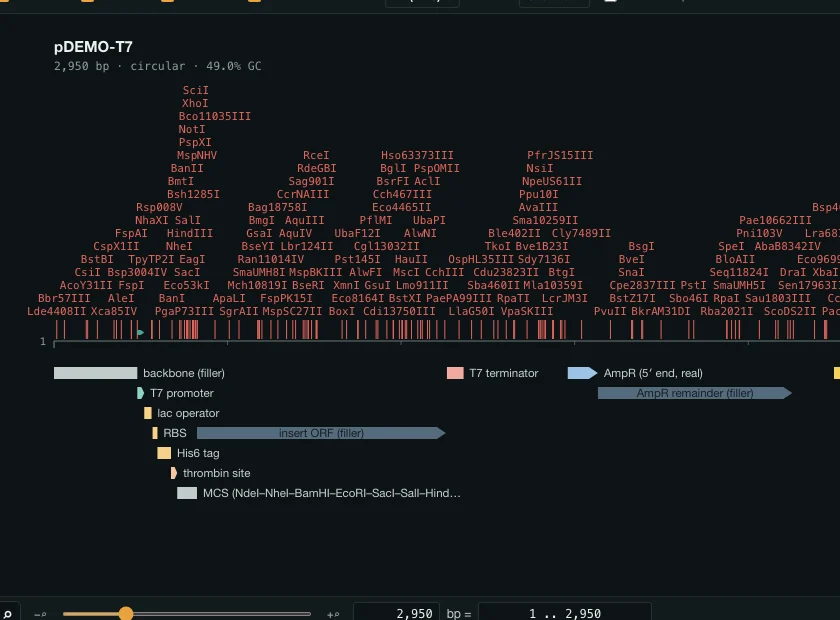
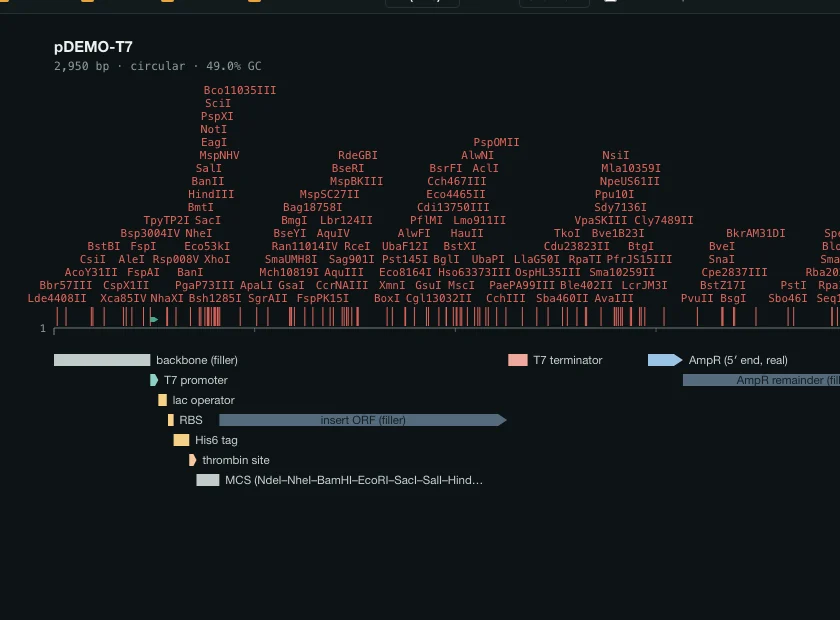
The landing page

diff --git a/docs/index.html b/docs/index.html
@@ -67,12 +67,27 @@ document.documentElement.dataset.theme=t;})()</script>
 }
 *{box-sizing:border-box}
 html{scroll-behavior:smooth; background:var(--paper)}
+/* ── the type, measured off the reference rather than guessed ────────────────
+   Shotbase's page was read with the browser rather than looked at, and the one
+   thing that carries its whole feel is this: **nothing on it is bold.** The
+   56 px hero is weight 500, the 48 px headings are 500, and the 28 px
+   sub-heading is **400** — and every one of them is tracked *negative*, −1.4 px,
+   which at 56 px is −0.025em. The body is 16/1.5 at −0.3 px, so even the prose
+   is tracked in. Two line-height regimes and nothing between them: 1.21 for
+   anything heading-shaped, 1.5 for prose.
+
+   What that buys is why it is worth copying: weight is the loudest thing type
+   has, so a page that never spends it reads as composed rather than as shouted,
+   and the tracking is what keeps a light weight at 56 px from falling apart.
+   Our own sizes stay — the reference's 1088 px measure is not ours — but the
+   weights, the tracking and the two line heights are taken whole. */
 body{
   margin:0; background:var(--paper); color:var(--body);
-  font:400 17px/1.65 var(--ui); -webkit-font-smoothing:antialiased;
+  font:400 17px/1.6 var(--ui); letter-spacing:-.017em;
+  -webkit-font-smoothing:antialiased;
   overflow-x:hidden;
 }
-h1,h2,h3{color:var(--ink); line-height:1.14; letter-spacing:-.02em; margin:0}
+h1,h2,h3{color:var(--ink); font-weight:500; line-height:1.2; letter-spacing:-.025em; margin:0}
 a{color:inherit}
 /* **`height` is an attribute, and the phone gets a different picture.** Each
    frame carries a wide screenshot and a crop of it for narrow screens; with the
@@ -100,7 +115,8 @@ section[id], div[id]{scroll-margin-top:74px}
    hides these is put on the document by the script that reveals them, and only
    where there is an observer to do it. A page whose script never ran, or ran
    and threw, is a page with everything on it. */
-html.js .rise{opacity:0; transform:translateY(14px); transition:opacity .5s ease, transform .5s ease}
+html.js .rise{opacity:0; transform:translateY(10px); will-change:transform;
+  transition:opacity .5s ease, transform .5s ease}
 html.js .rise.in{opacity:1; transform:none}
 @media (prefers-reduced-motion:reduce){ html{scroll-behavior:auto} }
 
@@ -197,8 +213,8 @@ header.rail{
   border:1px solid rgba(232,163,61,.28)}
 /* Lighter and tighter than a left column's headline: centred display type is
    read as a shape before it is read as words, and 660 at 66 px is a wall. */
-h1{font-size:clamp(34px,5.1vw,58px); font-weight:600; letter-spacing:-.03em;
-   line-height:1.06; max-width:24ch; margin-inline:auto; text-wrap:balance}
+h1{font-size:clamp(34px,5.1vw,58px); font-weight:500; letter-spacing:-.025em;
+   line-height:1.14; max-width:24ch; margin-inline:auto; text-wrap:balance}
 /* **Two lines, and the rest of the sentence is the page.** The hero carried the
    whole description — six lines centred, which is a paragraph standing where a
    promise goes, and every one of its clauses has its own section below. */
@@ -214,13 +230,25 @@ h1{font-size:clamp(34px,5.1vw,58px); font-weight:600; letter-spacing:-.03em;
      justify-content:center}
 .btn{
   display:inline-flex; align-items:center; gap:9px; text-decoration:none;
-  font:550 15px/1 var(--ui); padding:13px 20px; border-radius:11px;
+  font:500 15px/1 var(--ui); letter-spacing:-.019em; padding:13px 20px; border-radius:10px;
   border:1px solid var(--line); color:var(--ink); background:var(--ground);
   transition:transform .12s ease, border-color .12s ease, background .12s ease;
 }
 .btn:hover{transform:translateY(-1px); border-color:var(--slate)}
 .hero .btn{border-radius:999px; padding:14px 24px}
-.hero .btn.primary{box-shadow:0 10px 30px rgba(232,163,61,.22)}
+/* **The reference's button is two shadows and one of them is inside it.**
+   Measured: `inset 0 3px 0 rgba(255,255,255,.2)` over `0 2px 4px` in the
+   button's *own hue* — a highlight along the top edge, which is what makes a
+   filled pill read as a raised object rather than as a coloured rectangle, and
+   a contact shadow that is the button's colour instead of black, so the button
+   looks lit rather than cut out. Both taken, in the accent's own colour, with
+   the wide lift this page already had kept under them. */
+.hero .btn.primary{
+  box-shadow:
+    inset 0 3px 0 rgba(255,255,255,.22),
+    0 2px 4px color-mix(in oklab, var(--amber) 34%, transparent),
+    0 10px 30px rgba(232,163,61,.22);
+}
 /* the platform this reader is not on is a choice, not a second call to action */
 .hero .cta .btn:not(.primary){background:rgba(255,255,255,.06); border-color:rgba(255,255,255,.14);
   font-weight:500; padding:14px 20px}
@@ -274,7 +302,7 @@ figure{margin:0}
    the outside, and the shadow is three layers: a contact edge, a lift, and a
    wide ambient that puts the block *in* the field rather than on top of it. */
 .frame{
-  border:0; border-radius:clamp(14px,1.4vw,20px); overflow:hidden; background:var(--sunk);
+  border:0; border-radius:16px; overflow:hidden; background:var(--sunk);
   box-shadow:
     0 0 0 1px rgba(255,255,255,.09),
     0 1px 2px rgba(0,0,0,.5),
@@ -510,24 +538,40 @@ section .num + h2, section.plain .num + h2{margin-top:0}
 .num svg{display:block; flex:none}
 .num b{font-weight:600; font-family:var(--mono); font-size:11.5px;
   opacity:.72; letter-spacing:.08em}
-/* the wash, behind the frame rather than round it: an inset ring or a coloured
-   border would be a second edge competing with the frame's own */
-.feat figure{position:relative; isolation:isolate}
+/* ── the scene card ──────────────────────────────────────────────────────────
+   **The wash was a guess and the reference does something else entirely.** Read
+   with the browser rather than looked at, Shotbase's product shots do not sit on
+   a blurred glow: each sits on a **flat pastel rectangle**, 535×474 at
+   `border-radius:30px`, whose only trick is `box-shadow: inset 0 0 28px #FFF` —
+   an inner *white* glow. That one line is what stops a flat pastel reading as a
+   coloured rectangle: the edges lift toward the page and the middle stays the
+   colour, so the card looks lit from inside rather than painted on. The shot on
+   top is `border-radius:16px` with **no shadow at all** — the card is doing the
+   separating, so the shot does not have to.
+
+   Their pastels are the section's own hue at about a tenth: `#DFF2FE`,
+   `#FFEDD4`, `#F4F4F5`. Ours is `--topic` mixed into the page's own ground, so
+   the card is the section's colour on both themes rather than a pastel that
+   only exists in one. The inner glow goes to white on light and to a faint warm
+   white on dark, where a full-strength white ring would be a halo. */
+.feat figure{
+  position:relative; isolation:isolate;
+  padding:clamp(14px,2.2vw,34px);
+  border-radius:clamp(18px,2vw,30px);
+  background:color-mix(in oklab, var(--topic) 13%, var(--ground));
+  box-shadow:inset 0 0 28px rgba(255,255,255,.055);
+}
 .feat figure .frame{position:relative; z-index:1}
-/* **A blur paints outside its box; a negative inset *is* a bigger box.** Written
-   `left:-8%; right:-8%` to let the wash bleed past the figure, it grew the
-   document instead — measured, the page ran 8 px past a 390 px viewport and 17
-   past 768, which is a horizontal scrollbar on a phone for a decoration. The
-   box stays inside the figure and the spread comes from the blur, which is
-   paint and costs the layout nothing. */
-.feat figure::before{
-  content:''; position:absolute; z-index:0; pointer-events:none;
-  inset:0;
-  background:radial-gradient(62% 58% at 50% 50%,
-    color-mix(in oklab, var(--topic) 34%, transparent), transparent 74%);
-  /* the frame on top is opaque, so what is seen is only what the blur throws
-     past its edges — which is the whole effect, and it costs no layout */
-  filter:blur(58px);
+/* a caption belongs to the figure and not to the card it stands on */
+.feat figure figcaption{margin-left:0; margin-right:0}
+/* **The card is a new ground, so the quiet token has to be solved for it.**
+   `--faint` was solved against the page, the well and a card, and the scene
+   card is none of those — measured, the fourteen captions read **3.92** on the
+   teal card, which is the darkest of the five. #88999C is 4.91 there and 5.07
+   on the warmest, and it is still quieter than `--slate`. */
+.feat figure{--faint:#88999C}
+@supports not (color:color-mix(in oklab, red 10%, transparent)){
+  .feat figure{background:var(--ground)}
 }
 /* Safari before 16.2 has no `color-mix`; the pill would then have no fill and
    no ring and read as plain text, so the fallback is the page's own card */
@@ -565,11 +609,11 @@ section.plain h2{font-size:clamp(26px,3.4vw,36px); margin-top:14px}
 }
 .lede{margin:16px 0 0; max-width:64ch; font-size:clamp(16px,1.8vw,18.5px)}
 .cards{display:grid; grid-template-columns:repeat(auto-fit,minmax(258px,1fr)); gap:14px; margin-top:34px}
-.card{border:1px solid var(--hair); border-radius:13px; padding:20px; background:var(--ground)}
+.card{border:1px solid var(--hair); border-radius:16px; padding:20px; background:var(--ground)}
 .card h3{font-size:16px; display:flex; align-items:center; gap:9px}
 .card h3 code{font:500 11.5px/1 var(--mono); color:var(--amber); background:var(--amber-soft); padding:4px 7px; border-radius:6px}
 .card p{margin:11px 0 0; font-size:14.5px; color:var(--slate); line-height:1.6}
-.also{display:grid; grid-template-columns:repeat(auto-fit,minmax(216px,1fr)); gap:1px; margin-top:32px; background:var(--hair); border:1px solid var(--hair); border-radius:13px; overflow:hidden}
+.also{display:grid; grid-template-columns:repeat(auto-fit,minmax(216px,1fr)); gap:1px; margin-top:32px; background:var(--hair); border:1px solid var(--hair); border-radius:16px; overflow:hidden}
 .also div{background:var(--paper); padding:17px 18px}
 .also b{display:block; color:var(--ink); font-size:14.5px; font-weight:600}
 .also span{display:block; margin-top:5px; font-size:13.5px; color:var(--faint); line-height:1.5}
@@ -634,7 +678,7 @@ section.plain h2{font-size:clamp(26px,3.4vw,36px); margin-top:14px}
   .cmp colgroup{display:none}
   .cmp, .cmp tbody, .cmp tr, .cmp th, .cmp td{display:block; width:auto}
   .cmp thead{display:none}
-  .cmp tr{border:1px solid var(--hair); border-radius:12px; padding:4px 14px 10px; margin:0 0 12px; background:var(--ground)}
+  .cmp tr{border:1px solid var(--hair); border-radius:16px; padding:4px 14px 10px; margin:0 0 12px; background:var(--ground)}
   .cmp th, .cmp td{border:0; padding:9px 0}
   .cmp tbody th{color:var(--ink); font-size:15.5px; font-weight:600; padding-top:14px}
   .cmp td::before{
@@ -677,7 +721,7 @@ section.plain h2{font-size:clamp(26px,3.4vw,36px); margin-top:14px}
   .tbcard b + span{grid-column:2; margin-top:0}
 }
 .tbcard{
-  border:1px solid var(--hair); border-radius:14px; background:var(--ground);
+  border:1px solid var(--hair); border-radius:16px; background:var(--ground);
   padding:18px 18px 20px; transition:border-color .15s ease, transform .15s ease;
 }
 .tbcard:hover{border-color:var(--line); transform:translateY(-2px)}
@@ -714,7 +758,7 @@ section.plain h2{font-size:clamp(26px,3.4vw,36px); margin-top:14px}
 /* ── questions ───────────────────────────────────────────────────────────── */
 .qs{margin-top:26px; border-top:1px solid var(--hair)}
 details{border-bottom:1px solid var(--hair)}
-summary{cursor:pointer; list-style:none; padding:18px 34px 18px 0; position:relative; color:var(--ink); font-weight:560; font-size:16.5px}
+summary{cursor:pointer; list-style:none; padding:18px 34px 18px 0; position:relative; color:var(--ink); font-weight:500; font-size:16.5px}
 summary::-webkit-details-marker{display:none}
 summary::after{content:'+'; position:absolute; right:6px; top:50%; transform:translateY(-50%); font:400 20px/1 var(--mono); color:var(--slate)}
 details[open] summary::after{content:'–'}
@@ -737,7 +781,7 @@ details p{margin:0 0 20px; max-width:70ch; font-size:15.5px; color:var(--slate)}
 .mail{
   display:inline-flex; align-items:center; gap:10px; margin-top:26px;
   font:500 15px/1 var(--mono); color:var(--ink); text-decoration:none;
-  border:1px solid var(--line); border-radius:11px; padding:13px 18px; background:var(--paper);
+  border:1px solid var(--line); border-radius:10px; padding:13px 18px; background:var(--paper);
   word-break:break-all;
 }
 .mail:hover{border-color:var(--amber)}
@@ -817,6 +861,18 @@ footer{border-top:1px solid var(--hair); padding:44px 0 60px; background:var(--p
 /* the pill's word, solved against the pill's own tint — see the note beside
    `.feat .num`. The fill and the ring stay the topic itself. */
 :root[data-theme="light"] section{ --topic-ink:color-mix(in oklab, var(--topic) 74%, #0E1618) }
+/* the scene card, on the theme its technique was read from: a real pastel —
+   the topic at about a tenth, mixed into white rather than into the page — and
+   the inner glow at full white, which is the reference's own figure */
+:root[data-theme="light"] .feat figure{
+  background:color-mix(in oklab, var(--topic) 11%, #FFFFFF);
+  box-shadow:inset 0 0 28px #FFFFFF;
+  /* the base rules are the dark theme and they reach light too, so the dark
+     card's `--faint` would otherwise apply on a pastel. Light passes on its
+     own page value at 4.58–4.68, which is margin-less; the plate-safe #56686B
+     reads 4.93–5.04 across all five cards. */
+  --faint:#56686B;
+}
 /* the field, in a theme where the page is lighter than the application: the
    same three lights, laid on the page's own paper rather than on a dusk */
 :root[data-theme="light"] .hero::before{
@@ -870,10 +926,17 @@ footer{border-top:1px solid var(--hair); padding:44px 0 60px; background:var(--p
   --ground:#131B1D; --sunk:#0A1012; --hair:#1D272A; --line:#263235;
   --ink:#EAF0EE; --faint:#7E9093;
   border-color:#0A1012;
+  /* **The reference's workhorse shadow is almost nothing**, and that is the
+     point: `0 8px 19.1px -7px rgba(0,0,0,.06)` on sixteen of its elements — one
+     layer with a *negative spread*, so it is a soft contact under the block
+     rather than a halo round it. Ours is stronger, because the block it lifts
+     is near-black on a white page, but it is that shape: one soft layer pulled
+     in, plus the hairline that gives a dark block an edge. The three heavy
+     layers that were here were doing the work the scene card now does. */
   box-shadow:
-    0 0 0 1px rgba(13,19,21,.10),
-    0 2px 4px rgba(13,19,21,.08),
-    0 18px 40px -14px rgba(13,19,21,.34);
+    0 0 0 1px rgba(13,19,21,.09),
+    0 8px 19px -7px rgba(13,19,21,.20),
+    0 26px 48px -22px rgba(13,19,21,.26);
 }
 
 </style>
